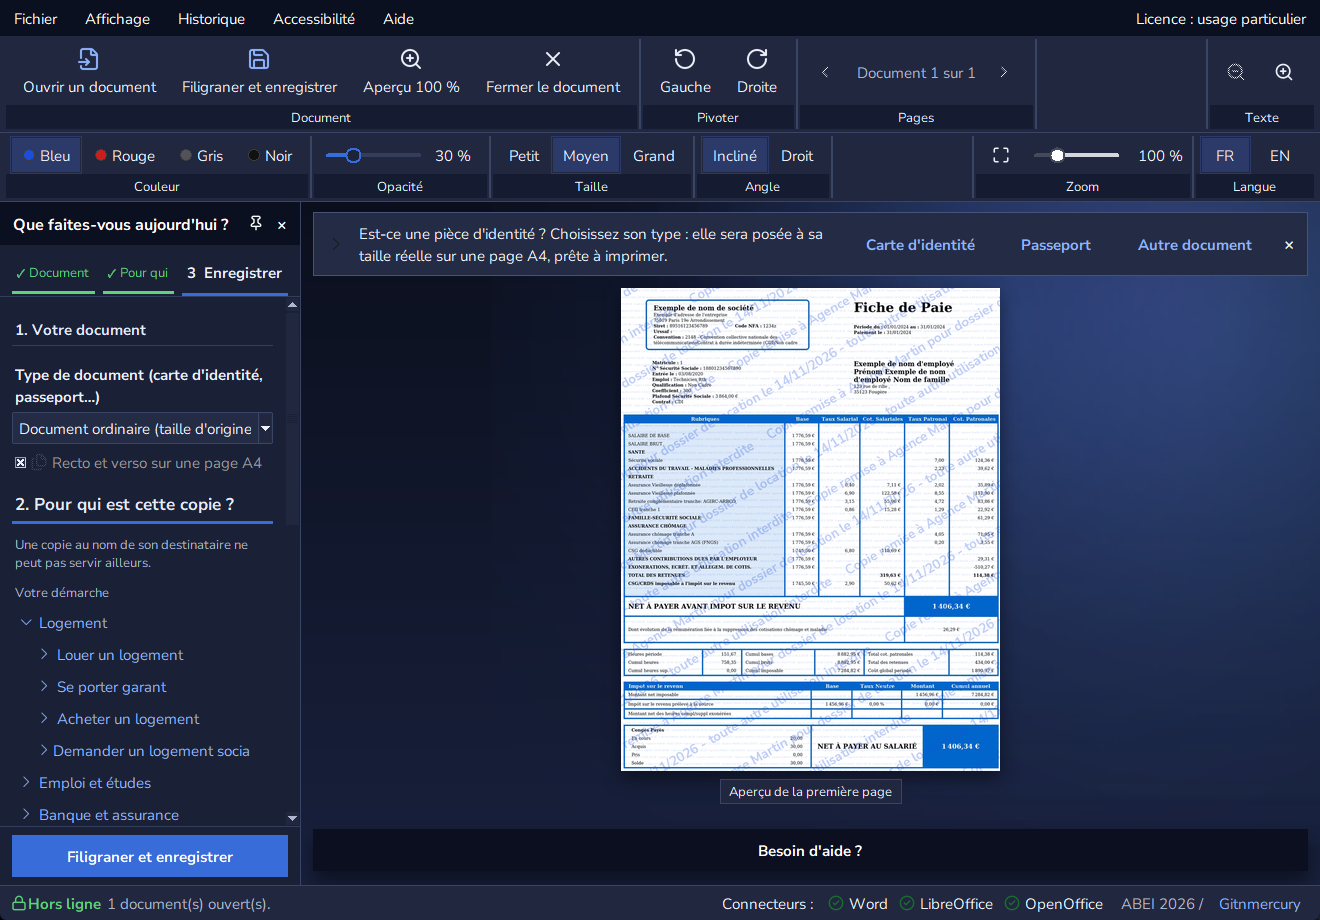
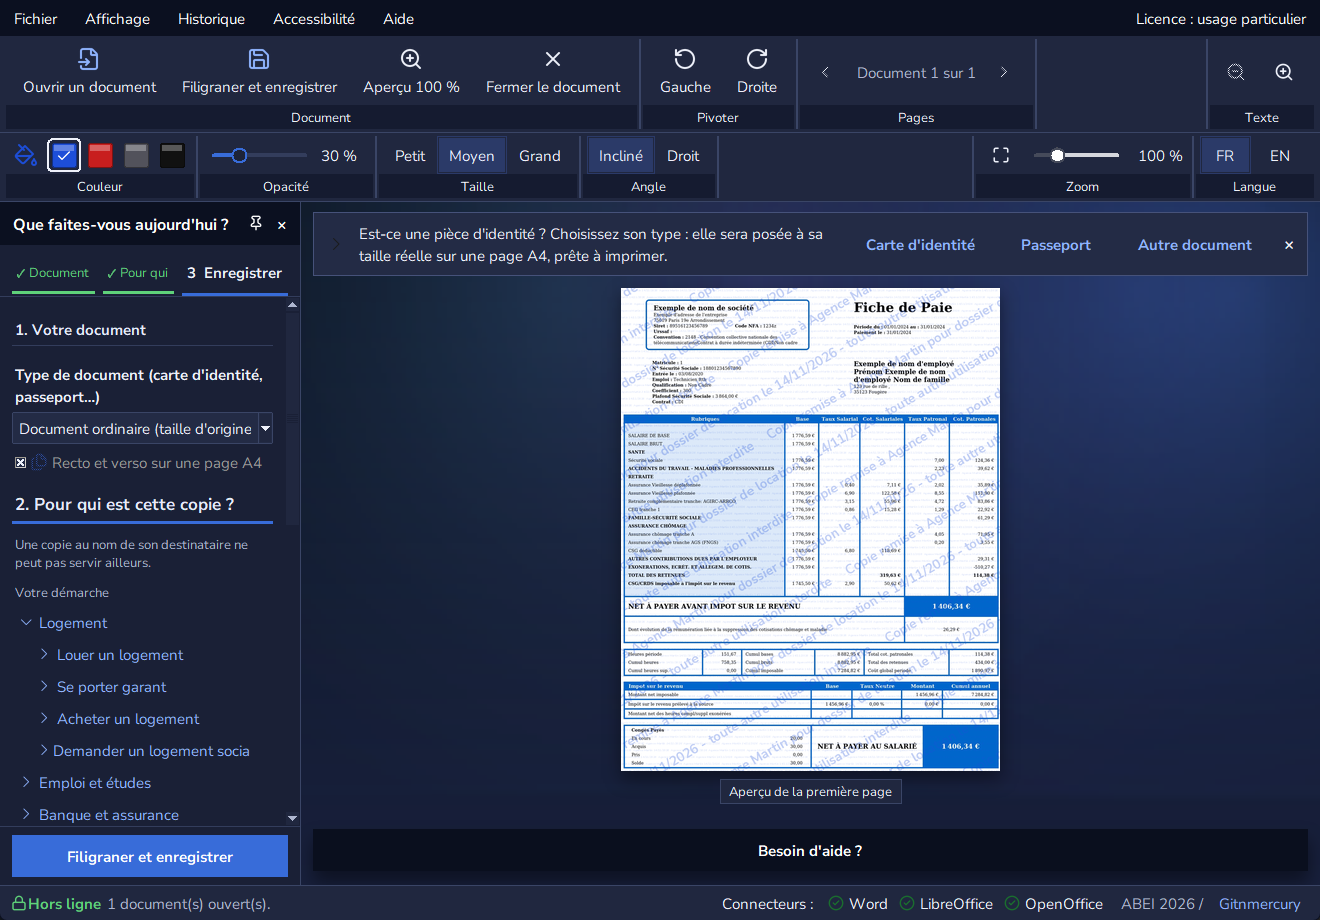
Captures mises a jour (fenetres d'aide, palette, raccourcis clavier)

Changed region(s): [[0.2795, 0.2739, 0.5902, 0.487], [0.0, 0.1217, 0.6212, 0.2435]]

diff --git a/README.md b/README.md
@@ -111,6 +111,10 @@ même façon (convertis sur votre ordinateur).
 
 ![Menu Accessibilité](captures/14-menu-accessibilite.png)
 
+- **Raccourcis clavier** : tout se fait aussi au clavier, avec des touches dessinées pour les repérer d'un coup d'œil.
+
+![Raccourcis clavier](captures/20-raccourcis-clavier.png)
+
 ![Aide](captures/15-aide.png)
 
 La boîte « Besoin d'aide ? » sous le document se déplie en trois cartes animées : une **visite guidée**, « Comment ça marche » et « Rester protégé »
